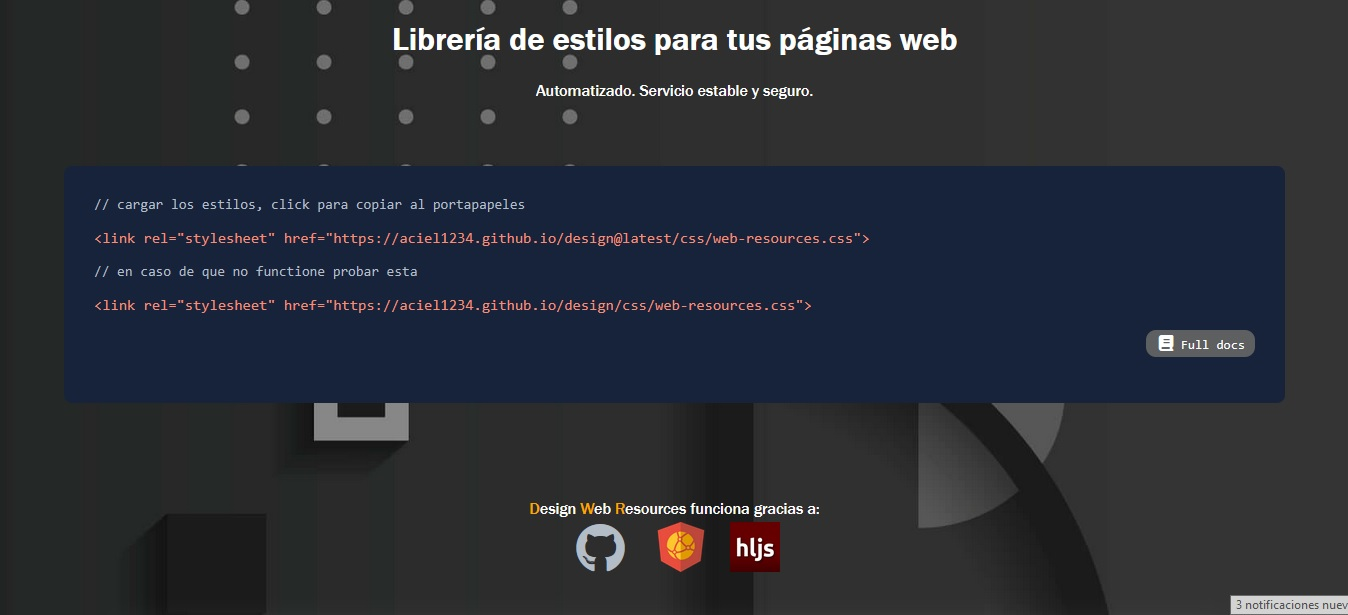
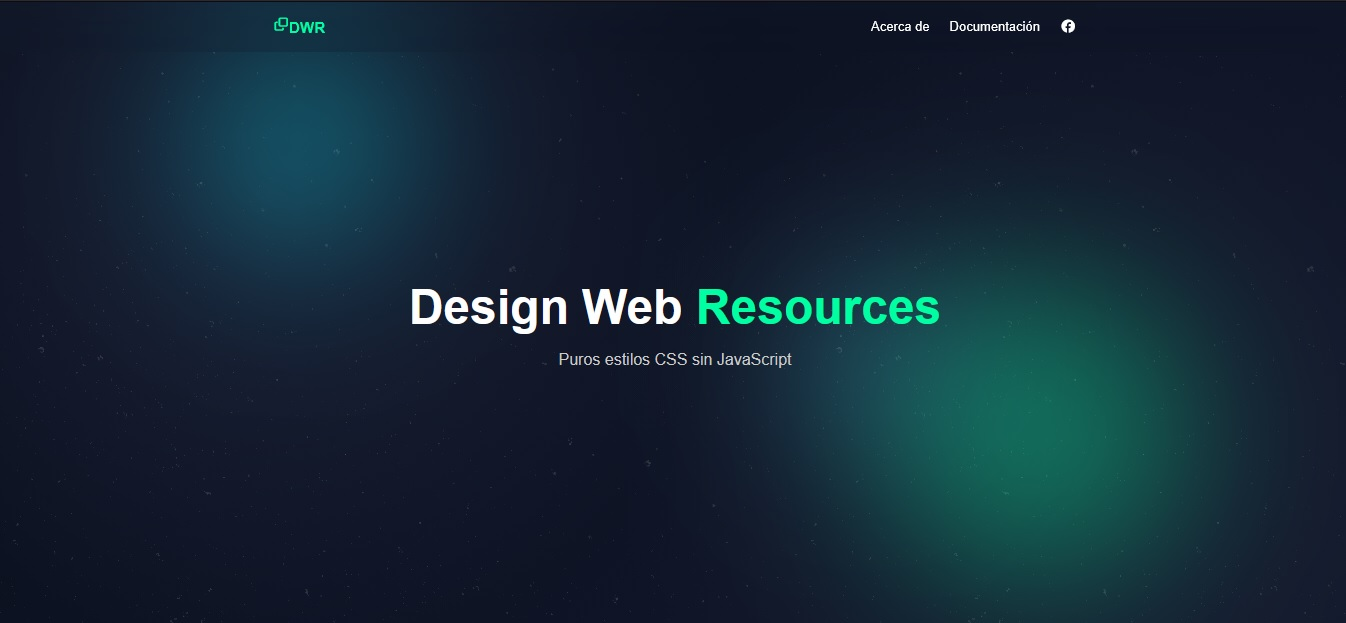
nuevo proyecto añadido

diff --git a/index.html b/index.html
@@ -6,7 +6,7 @@
     <title>Portafolio de Aciel Olivera</title>
     <link rel="shortcut icon" href="img/dev.jpg" type="image/x-icon">
     <link rel="stylesheet" href="css/style.css">
-    <meta name="description" content="Contrata a Aciel Olivera para crear tu aplicación web o móvil. Desarrollador web especializado en crear soluciones únicas.">
+    <meta name="description" content="Contrata a Aciel Olivera para crear tu aplicación web. Desarrollador web especializado en crear soluciones únicas.">
     <script src="http://kit.fontawesome.com/1165876da6.js" crossorigin="anonymous"></script>
     <link rel="stylesheet" href="https://cdnjs.cloudflare.com/ajax/libs/font-awesome/7.0.1/css/all.min.css" integrity="sha512-2SwdPD6INVrV/lHTZbO2nodKhrnDdJK9/kg2XD1r9uGqPo1cUbujc+IYdlYdEErWNu69gVcYgdxlmVmzTWnetw==" crossorigin="anonymous" referrerpolicy="no-referrer">
 </head>
@@ -16,7 +16,7 @@
         <h2>Web Designer</h2>
         <div class="icons">
             <a href="#" aria-label="Facebook" target="_blank" rel="noopener"><i class="fab fa-facebook"></i></a>
-            <a href="#" aria-label="WhatsApp" target="_blank" rel="noopener"><i class="fab fa-whatsapp"></i></a>
+            <a href="https://wa.me/+5355602622" aria-label="WhatsApp" target="_blank" rel="noopener"><i class="fab fa-whatsapp"></i></a>
         </div>
     </header>
 
@@ -59,6 +59,20 @@
             <div class="contenido-proyectos">
 
                 <article class="card">
+                    <img src="img/enseñanza-web.jpg" alt="Landing page de enseñanza">
+                    <h3>Spanish With Elisa</h3>
+                    <h4>Página web que muestra variedad de cursos de enseñanza del lenguaje Español para toda clase de estudiantes. Contiene diversos niveles de enseñanza los cuales se adaptarán según el público.</h4>
+                    <div class="tech">
+                        <i class="fab fa-html5"></i>
+                        <i class="fab fa-css3-alt"></i>
+                        <i class="fab fa-js"></i>
+                    </div>
+                    <a href="https://aciel1234.github.io/SpanishWithElisa/index.html" target="_blank" rel="noopener">
+                        <i class="fa-solid fa-link"></i> Preview
+                    </a>
+                </article>
+
+                <!-- <article class="card">
                     <img src="img/podcastcristiano.jpg" alt="Podcast Cristiano">
                     <h3>Podcast Cristiano</h3>
                     <h4>Mini blog pensado para difundir la palabra de Dios por medio de podcast y entrevistas. A través de un panel de administrador se subirán los audios y los usuarios podrán dejar su testimonio.</h4>
@@ -72,7 +86,7 @@
                     <a href="https://podcastcristiano.xo.je/index.php" target="_blank" rel="noopener">
                         <i class="fa-solid fa-link"></i> Preview
                     </a>
-                </article>
+                </article> -->
 
                 <article class="card">
                     <img src="img/gestion_inventario.jpg" alt="Aplicación de gestión de inventario">
@@ -249,7 +263,7 @@
         <p>© 2025 Aciel Olivera García</p>
         <div class="icons">
             <a href="#" aria-label="Facebook" target="_blank" rel="noopener"><i class="fab fa-facebook"></i></a>
-            <a href="#" aria-label="WhatsApp" target="_blank" rel="noopener"><i class="fab fa-whatsapp"></i></a>
+            <a href="https://wa.me/+5355602622" aria-label="WhatsApp" target="_blank" rel="noopener"><i class="fab fa-whatsapp"></i></a>
         </div>
     </footer>
 </body>
